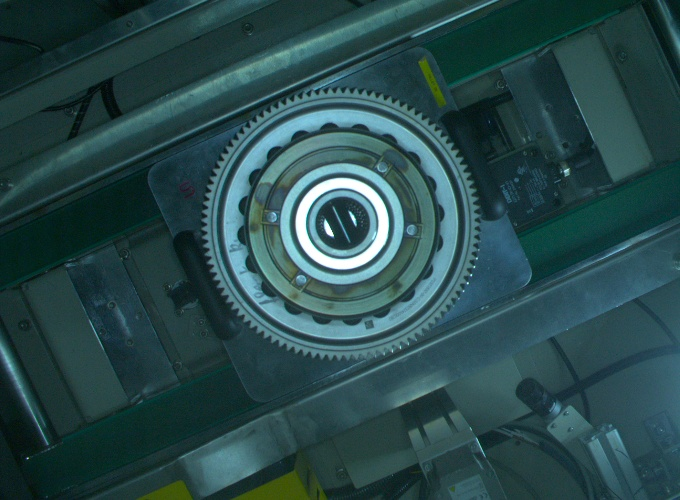
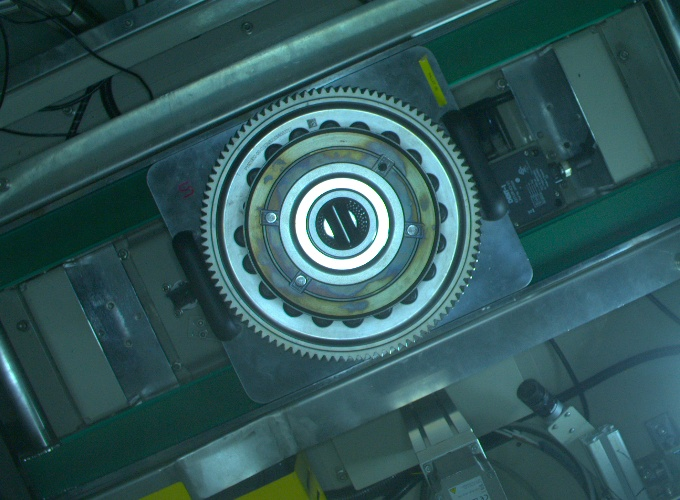
update bolt code

diff --git a/test_vision/muvro/boltsnew.py b/test_vision/muvro/boltsnew.py
@@ -5,12 +5,14 @@ import numpy as np
 import json
 from cam import camera_streams
 cap = camera_streams(mode="Industrial")
+prev_circle=[112, 100 , 27]#[339 ,223 , 27 ]
 
 def detectCircle(img, radius=30, minDist=200,
-                 param1=50,
+                 param1=60,
                  param2=70,
                  minRadius=10,
                  ):
+    global prev_circle
     gray = cv2.cvtColor(img, cv2.COLOR_BGR2GRAY)
 
     # blurred = cv2.medianBlur(gray, 5)  #
@@ -28,21 +30,24 @@ def detectCircle(img, radius=30, minDist=200,
     Max = 0
     center = []
     if circles is not None:
+        print("circle",circles)
         circles = np.uint16(np.around(circles))
         for i in circles[0, :]:
             if Max < i[2]:
                 Max = i[2]
-                center = i
-                cv2.circle(img, (center[0], center[1]), center[2]+67, (255,255, 255), -1)
-
-                # cv2.circle(img, (center[0], center[1]), center[2], (0, 255, 0), 2)
-                # cv2.namedWindow("multi_img", cv2.WINDOW_NORMAL)
-                # cv2.imshow('multi_img',img)
+                center=i
+                prev_circle=center
+                
 #                     cv2.waitKey(0)
 #                     cv2.destroyAllWindows()
-        return img,1
-    else:
-        return img,0
+    print(prev_circle)
+    cv2.circle(img, (prev_circle[0]-2, prev_circle[1]), prev_circle[2]+69, (255,255, 255), -1)
+
+    cv2.circle(img, (prev_circle[0], prev_circle[1]), prev_circle[2], (0, 255, 0), 2)
+    cv2.namedWindow("multi_img", cv2.WINDOW_NORMAL)
+    cv2.imshow('multi_img',img)
+    return img,1
+
     
 def hconcat_resize(img_list,
                    interpolation=cv2.INTER_CUBIC):
@@ -92,9 +97,16 @@ good = image_loc("muvro/sona_data")
 
 
 # pin=[[171, 146, 44, 45], [475, 160, 35, 38], [468, 326, 38, 38], [174, 319, 35, 36]]
-bolt = [[314, 116, 26, 24], [342, 116, 29, 25], [374, 126, 26, 27], [399, 144, 23, 30], [418, 171, 21, 29], [430, 201, 16, 31], [431, 227, 14, 35], [415, 259, 18, 29], [396, 284, 20, 25], [367, 304, 25, 22], [335, 305, 29, 30], [305, 310, 28, 21], [273, 297, 28, 24], [250, 277, 26, 26], [236, 253, 23, 29], [230, 220, 20, 34], [232, 191, 20, 31], [241, 162, 20, 31], [261, 143, 24, 25], [283, 127, 29, 18]]
-# param={"min1": 153, "max1": 219, "min2": 164, "max2": 223, "min3": 184, "max3": 255, "min4": 183, "max4": 259, "min5": 192, "max5": 252, "min6": 138, "max6": 245, "min7": 126, "max7": 237, "min8": 97, "max8": 230, "min9": 85, "max9": 252, "min10": 75, "max10": 210, "min11": 62, "max11": 187, "min12": 51, "max12": 209, "min13": 102, "max13": 253, "min14": 77, "max14": 245, "min15": 88, "max15": 238, "min16": 164, "max16": 256, "min17": 116, "max17": 240, "min18": 71, "max18": 217, "min19": 94, "max19": 256, "min20": 170, "max20": 286}
-# param={'min1': 192, 'max1': 196, 'min2': 193, 'max2': 199, 'min3': 240, 'max3': 248, 'min4': 236, 'max4': 243, 'min5': 238, 'max5': 245, 'min6': 232, 'max6': 242, 'min7': 222, 'max7': 232, 'min8': 222, 'max8': 230, 'min9': 241, 'max9': 248, 'min10': 199, 'max10': 206, 'min11': 177, 'max11': 184, 'min12': 197, 'max12': 205, 'min13': 232, 'max13': 240, 'min14': 221, 'max14': 229, 'min15': 230, 'max15': 236, 'min16': 232, 'max16': 240, 'min17': 231, 'max17': 237, 'min18': 173, 'max18': 177, 'min19': 211, 'max19': 216, 'min20': 231, 'max20': 241}
+bolt = [[314, 116, 26, 24], [342, 116, 29, 25], 
+        [374, 126, 26, 27], [399+2, 144, 23, 30], 
+        [418+2, 171-2, 21, 29], [430+3, 201, 16, 31],
+          [431+2, 227, 14+2, 35], [415, 259-2, 18+4, 29], 
+          [396, 284-2, 20+3, 25], [367+2, 304, 25, 22], 
+          [335, 305, 29, 30], [305, 310, 28, 21], 
+          [273, 297, 28, 24], [250, 277, 26, 26], 
+          [236, 253, 23, 29], [230, 220, 20, 34], 
+          [232, 191, 20, 31], [241, 162, 20, 31], 
+          [261, 143-2, 24, 25], [283, 127-2, 29, 18]]
 
 
 param = {}
@@ -105,14 +117,19 @@ pause = 0
 while (1):
 
     img1 = cap.get_frame((680, 500))
-
+    img2=img1.copy()
     # img = cv2.cvtColor(img1, cv2.COLOR_BGR2GRAY)
  
     # img2 = img.copy()
 
     rois = []
+    r=(231, 123, 217, 202)
+    roi_circle = img2[int(r[1]):int(r[1]+r[3]), 
+                        int(r[0]):int(r[0]+r[2])]
+    c_img2,_=detectCircle(roi_circle)
+    img2[int(r[1]):int(r[1]+r[3]), int(r[0]):int(r[0]+r[2])]=c_img2
 
-    img2,_=detectCircle(img1.copy())
+    # img2,_=detectCircle(img1.copy())
     if _==0:
         print("eeeeeeeeeeeeeeeeeeeeeeeeeeeeeee")
     img2 = cv2.cvtColor(img2, cv2.COLOR_BGR2GRAY)
@@ -140,7 +157,7 @@ while (1):
             roi = thresh[int(r[1]):int(r[1]+r[3]),
                          int(r[0]):int(r[0]+r[2])]
 
-            bl = cv2.medianBlur(roi, 9)
+            bl = cv2.medianBlur(roi, 5)
             cv2.imshow("blur",bl)
             roi = cv2.Canny(bl,120,189)
 
@@ -162,7 +179,7 @@ while (1):
         roiss = vconcat_resize([hconcat_resize(rois[:5]), hconcat_resize(
             rois[5:10]), hconcat_resize(rois[10:15]), hconcat_resize(rois[15:20])])
         roiss = cv2.resize(roiss, (400, 400))
-        print(param)
+        # print(param)
         cv2.imshow("roiss", roiss)
 
         cv2.imshow("image", img1)
@@ -176,9 +193,9 @@ cv2.destroyAllWindows()
 print(param)
 
 
-param=json.dumps(param)
-with open("muvro/boltsparam.json", "w") as dic:
-    dic.write(param)
+# param=json.dumps(param)
+# with open("muvro/boltsparam.json", "w") as dic:
+#     dic.write(param)
 
 bolt=json.dumps(bolt)
 with open("muvro/bolts.json", "w") as dic:

diff --git a/test_vision/withoutservercode.py b/test_vision/withoutservercode.py
@@ -562,6 +562,7 @@ def check_components():
                     try:
                         topCamera, downCamera,sideCamera= checkcamera(no=3)
                         # print(topCamera, sideCamera, downCamera)
+
                         if topCamera is None:
                             work.config(text="Camera3 is not working")
                             icon_img = cv2.imread("/home/aspagteq/Documents/after_assembly/test_vision/muvro/images/logo.jpg")
@@ -582,22 +583,22 @@ def check_components():
                         topCamera, sideCamera, downCamera = icon_img, icon_img, icon_img
 
                     cam_plate_detection_ui(
-                        downCamera, cam_plate_frame, raw_cam_plate_frame)
+                        downCamera.copy(), cam_plate_frame, raw_cam_plate_frame)
                     moving_plate_detection_ui(
-                        downCamera, moving_plate_frame, raw_moving_plate_frame)
+                        downCamera.copy(), moving_plate_frame, raw_moving_plate_frame)
 
                 # second cam:
 
                     isolated_washer_detection_ui(
-                        sideCamera, isolated_washer_frame, raw_isolated_washer_frame)
+                        sideCamera.copy(), isolated_washer_frame, raw_isolated_washer_frame)
                     spherical_washer_detection_ui(
-                        sideCamera, spherical_washer_frame, raw_spherical_washer_frame)
+                        sideCamera.copy(), spherical_washer_frame, raw_spherical_washer_frame)
 
                 # Third cam:
 
-                    bolts_detection_ui(topCamera, bolts_frame, raw_bolts_frame)
+                    bolts_detection_ui(topCamera.copy(), bolts_frame, raw_bolts_frame)
                     # pin_detection_ui(topCamera, D_shape_frame, raw_D_shape_frame)
-                    img,Pin_detect=pred_pins(topCamera)
+                    img,Pin_detect=pred_pins(topCamera.copy())
                     if Pin_detect==1:
                         D_shape_frame.configure(bg="green")
                         PD_DETECT+=1
@@ -611,7 +612,7 @@ def check_components():
                         pass
                 global shape_y, spherical_yes, bolt_yes, isolated_yes, cam_plate_yes, moving_plate_yes
 
-                if PD_DETECT > 2:
+                if PD_DETECT > 1:
                     Pin = 1
                     PD_DETECT = 0
                 else:
@@ -625,7 +626,7 @@ def check_components():
                     spherical_yes = 0
                     Spherical = 2
 
-                if bolt_yes > 2:
+                if bolt_yes > 0:
                     Bolt = 1
                     bolt_yes = 0
                 else:
@@ -1032,8 +1033,7 @@ work.grid(row=2, column=3, padx=10, pady=5, sticky="WENS")
 # ================================================================================================================================================================
 
 if __name__ == "__main__":
-    topCamera, downCamera,sideCamera= checkcamera(no=3)
-    img, out = pred_pins(topCamera)
+    os.system("/usr/bin/python3 /home/aspagteq/Documents/after_assembly/test_vision/muvro/predpin.py")
     image_processing_thread_for_moving_plate = threading.Thread(
         target=check_components)
     image_processing_thread_for_moving_plate.start()

diff --git a/test_vision/muvro/predpin.py b/test_vision/muvro/predpin.py
@@ -55,12 +55,10 @@ def pred_pins(image):
         pin = json.load(openfile)
     out = 0
 
-    try:
-        img1 = cv2.imread(image)
-    except:
-        img1 = image
+ 
+    img1 = image
 
-    shv = cv2.cvtColor(img1, cv2.COLOR_BGR2HSV)
+    # shv = cv2.cvtColor(img1, cv2.COLOR_BGR2HSV)
     img = cv2.cvtColor(img1, cv2.COLOR_BGR2GRAY)
     # cv2.imshow("gra",img)
     img[img<110]=0
@@ -72,36 +70,36 @@ def pred_pins(image):
                         int(r[0]):int(r[0]+r[2])]
 
     bpix=np.count_nonzero(brpcheck >1)
-    # print(bpix,brpcheck.shape[0]*brpcheck.shape[1])
+    print(bpix,brpcheck.shape[0]*brpcheck.shape[1])
    
 
     rois = []
     count = 0
     thresh = cv2.threshold(img, 80, 255, cv2.THRESH_BINARY)[1]
-    g = cv2.cvtColor(shv, cv2.COLOR_BGR2GRAY)
+    # g = cv2.cvtColor(shv, cv2.COLOR_BGR2GRAY)
     # cv2.imshow("GRAY",img)
     hsvthresh = cv2.threshold(
         img, 0, 255, cv2.THRESH_BINARY+cv2.THRESH_OTSU)[1]
-
+    
     for r, j in zip(pin, range(1, 5)):
 
         img = cv2.rectangle(img, (r[0], r[1]), (r[0]+r[2], r[1]+r[3]), 255, 1)
         roi = thresh[int(r[1]):int(r[1]+r[3]),
                      int(r[0]):int(r[0]+r[2])]
-        croi = hsvthresh[int(r[1]):int(r[1]+r[3]),
-                         int(r[0]):int(r[0]+r[2])]
+        # croi = hsvthresh[int(r[1]):int(r[1]+r[3]),
+        #                  int(r[0]):int(r[0]+r[2])]
 
         roi = cv2.resize(roi, (61, 61))
 
         # pin_black = np.count_nonzero(roi == 255)
         pin_black=61*61-np.count_nonzero(roi == 255)
-        if bpix<24000 and bpix>19000:
+        if bpix<25000 and bpix>19000:
             if j==1:
                 com_par=pinparam[f"min{j}"]+1500
             if j==2:
                 com_par=pinparam[f"min{j}"]+720
             if j==3:
-                com_par=pinparam[f"min{j}"]+400
+                com_par=pinparam[f"min{j}"]+900
             if j==4:
                 com_par=pinparam[f"min{j}"]+1700
         elif(bpix<19000):
@@ -117,11 +115,11 @@ def pred_pins(image):
             com_par=pinparam[f"min{j}"]
             
             
-        # print(j,com_par,pin_black)
+        print(j,com_par,pin_black)
 
 
         if com_par<pin_black:
-            # print(j,com_par,pin_black)
+            print(j,com_par,pin_black)
             count += 1
             img1 = cv2.rectangle(
                 img1, (r[0], r[1]), (r[0]+r[2], r[1]+r[3]), (0, 0, 255), 3)
@@ -162,11 +160,17 @@ def pred_pins(image):
 if __name__ == "__main__":
     from cam import camera_streams
     cap = camera_streams(mode="Industrial")
-
-    while True:
+    images=image_loc("/home/aspagteq/Documents/after_assembly/test_vision/muvro/sona_data")
+    for i in range(10) :
         frame = cap.get_frame((680, 500))
         img, out = pred_pins(frame)
         cv2.imshow("img", img)
         if cv2.waitKey(2) == ord('q'):
             break
-    cv2.destroyAllWindows()
+    # for frame in images:
+    #     frame=cv2.imread(frame)
+    #     img,out=pred_pins(frame)
+    #     cv2.imshow("img", img)
+    #     if cv2.waitKey(2) == ord('q'):
+    #         break
+    # cv2.destroyAllWindows()

diff --git a/test_vision/muvro/predbolts.py b/test_vision/muvro/predbolts.py
@@ -6,10 +6,10 @@ import json
 
 
 
-prev_circle=[339 ,223 , 27 ]
+prev_circle=[112, 100 , 27]#[339 ,223 , 27 ]
 def detectCircle(img, radius=30, minDist=200,
                  param1=60,
-                 param2=80,
+                 param2=70,
                  minRadius=10,
                  ):
     global prev_circle
@@ -30,6 +30,7 @@ def detectCircle(img, radius=30, minDist=200,
     Max = 0
     center = []
     if circles is not None:
+        # print('ciricle',circles)
         circles = np.uint16(np.around(circles))
         for i in circles[0, :]:
             if Max < i[2]:
@@ -39,9 +40,10 @@ def detectCircle(img, radius=30, minDist=200,
                 
 #                     cv2.waitKey(0)
 #                     cv2.destroyAllWindows()
-    cv2.circle(img, (prev_circle[0], prev_circle[1]), prev_circle[2]+68, (255,255, 255), -1)
+    # print(prev_circle)
+    cv2.circle(img, (prev_circle[0]-1, prev_circle[1]), prev_circle[2]+69, (255,255, 255), -1)
 
-    cv2.circle(img, (prev_circle[0], prev_circle[1]), prev_circle[2], (0, 255, 0), 2)
+    # cv2.circle(img, (prev_circle[0], prev_circle[1]), prev_circle[2], (0, 255, 0), 2)
     # cv2.namedWindow("multi_img", cv2.WINDOW_NORMAL)
     # cv2.imshow('multi_img',img)
     return img,1
@@ -113,10 +115,14 @@ def pred_bolts(image):
     # grey1=grey.copy()
    
     # thresh=cv2.threshold(grey1,80,255,cv2.THRESH_BINARY)[1]
-
-    img2,_=detectCircle(img.copy())
-    
-    img2 = cv2.cvtColor(img2, cv2.COLOR_BGR2GRAY)
+    # r= cv2.selectROI("select the area", img)
+    # print(r)
+    r=(231, 123, 217, 202)
+    roi_circle = img[int(r[1]):int(r[1]+r[3]), 
+                        int(r[0]):int(r[0]+r[2])]
+    img2,_=detectCircle(roi_circle)
+    img[int(r[1]):int(r[1]+r[3]), int(r[0]):int(r[0]+r[2])]=img2
+    img2 = cv2.cvtColor(img, cv2.COLOR_BGR2GRAY)
 
     thresh = cv2.threshold(img2, 80, 255, cv2.THRESH_BINARY)[1]   
     # thresh=cv2.adaptiveThreshold(grey1,255,cv2.ADAPTIVE_THRESH_GAUSSIAN_C,
@@ -130,12 +136,12 @@ def pred_bolts(image):
         img=cv2.rectangle(img,(r[0],r[1]),(r[0]+r[2],r[1]+r[3]),255,1)
         roi = thresh[int(r[1]):int(r[1]+r[3]), 
                       int(r[0]):int(r[0]+r[2])]
-        bl = cv2.medianBlur(roi, 9)
+        bl = cv2.medianBlur(roi, 5)
         # cv2.imshow("blur",bl)
         roi = cv2.Canny(bl,120,189)
         n_black=np.count_nonzero(roi == 255)
-
-        if (param[f"min{j}"]-28>n_black)  :
+        # print(j,param[f"min{j}"],param[f"min{j}"]-5,n_black)
+        if (param[f"min{j}"]-10>n_black)  :
             count+=1
             img=cv2.rectangle(img,(r[0],r[1]),(r[0]+r[2],r[1]+r[3]),(0,0,255),3)
             overlay = np.zeros_like(img)

diff --git a/test_vision/muvro/predmoving_plate.py b/test_vision/muvro/predmoving_plate.py
@@ -26,23 +26,26 @@ def pred_moving_plate(image):
     n_white = np.count_nonzero(edge == 255)
     edge = cv2.resize(edge, (400, 400))
     # cv2.imshow("edge",edge)
+    # print(mi,n_white)
 
-    if mi-10 > n_white:
+    if mi > n_white:
         img = cv2.putText(img, "NG", (20, 50),
                           cv2.FONT_HERSHEY_COMPLEX, 2, (0, 0, 255), 2)
         img = cv2.rectangle(img, (r[0], r[1]),
                             (r[0]+r[2], r[1]+r[3]), (0, 0, 255), 3)
         overlay = np.zeros_like(img)
         overlay[:] = (0, 0, 255)
-        print(mi,n_white)
+        # print(mi,n_white)
 
-    elif mx < n_white:
-        img = cv2.putText(img, "NG", (20, 50),
-                          cv2.FONT_HERSHEY_COMPLEX, 2, (0, 0, 255), 2)
-        img = cv2.rectangle(img, (r[0], r[1]),
-                            (r[0]+r[2], r[1]+r[3]), (0, 0, 255), 3)
-        overlay = np.zeros_like(img)
-        overlay[:] = (0, 0, 255)
+    # elif mx+20 < n_white:
+    #     img = cv2.putText(img, "NG", (20, 50),
+    #                       cv2.FONT_HERSHEY_COMPLEX, 2, (0, 0, 255), 2)
+    #     img = cv2.rectangle(img, (r[0], r[1]),
+    #                         (r[0]+r[2], r[1]+r[3]), (0, 0, 255), 3)
+    #     overlay = np.zeros_like(img)
+    #     overlay[:] = (0, 0, 255)
+    #     print(mx,n_white)
+
 
     else:
         img = cv2.putText(img, "OK", (20, 50),

diff --git a/test_vision/muvro/cam.py b/test_vision/muvro/cam.py
@@ -91,7 +91,7 @@ if __name__=="__main__":
         # cv.imshow("overlay",img)
         # cv.imshow("overlay image",overlay)
         # cv.imshow("overlay reverd",reversd)
-        cv.circle(frame,(333,221),90,(255,255,255),-1)
+        # cv.circle(frame,(333,221),90,(255,255,255),-1)
 
         cv.imshow("actual",frame)
         k=cv.waitKey(1)
